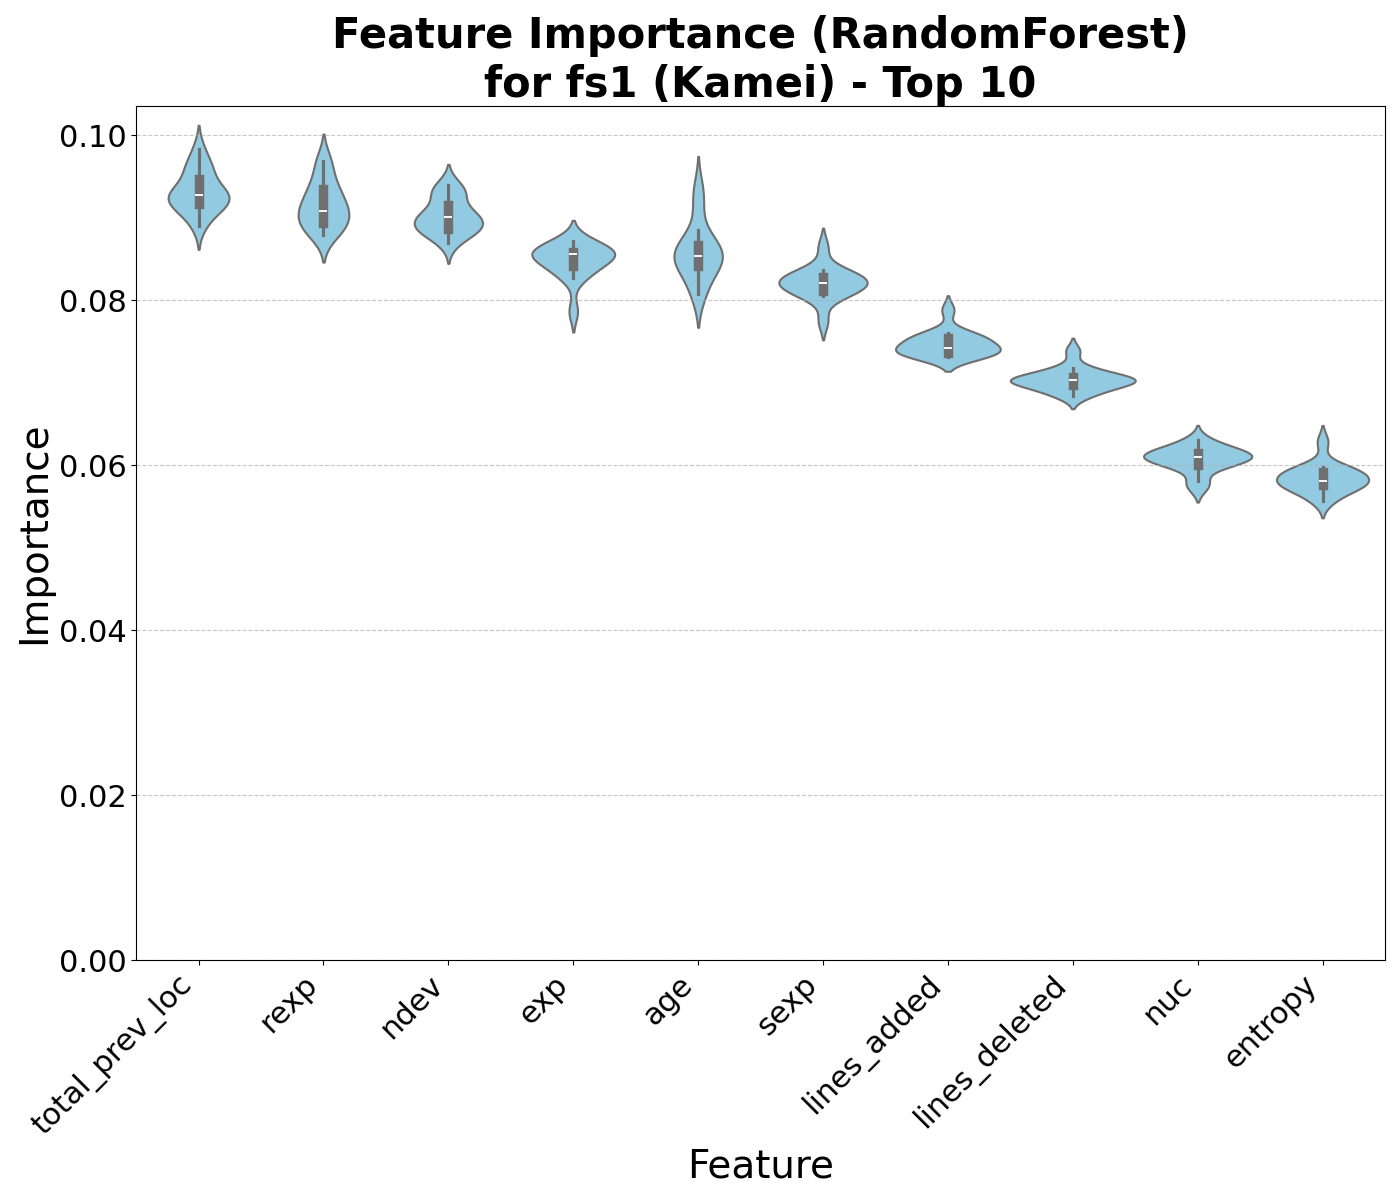
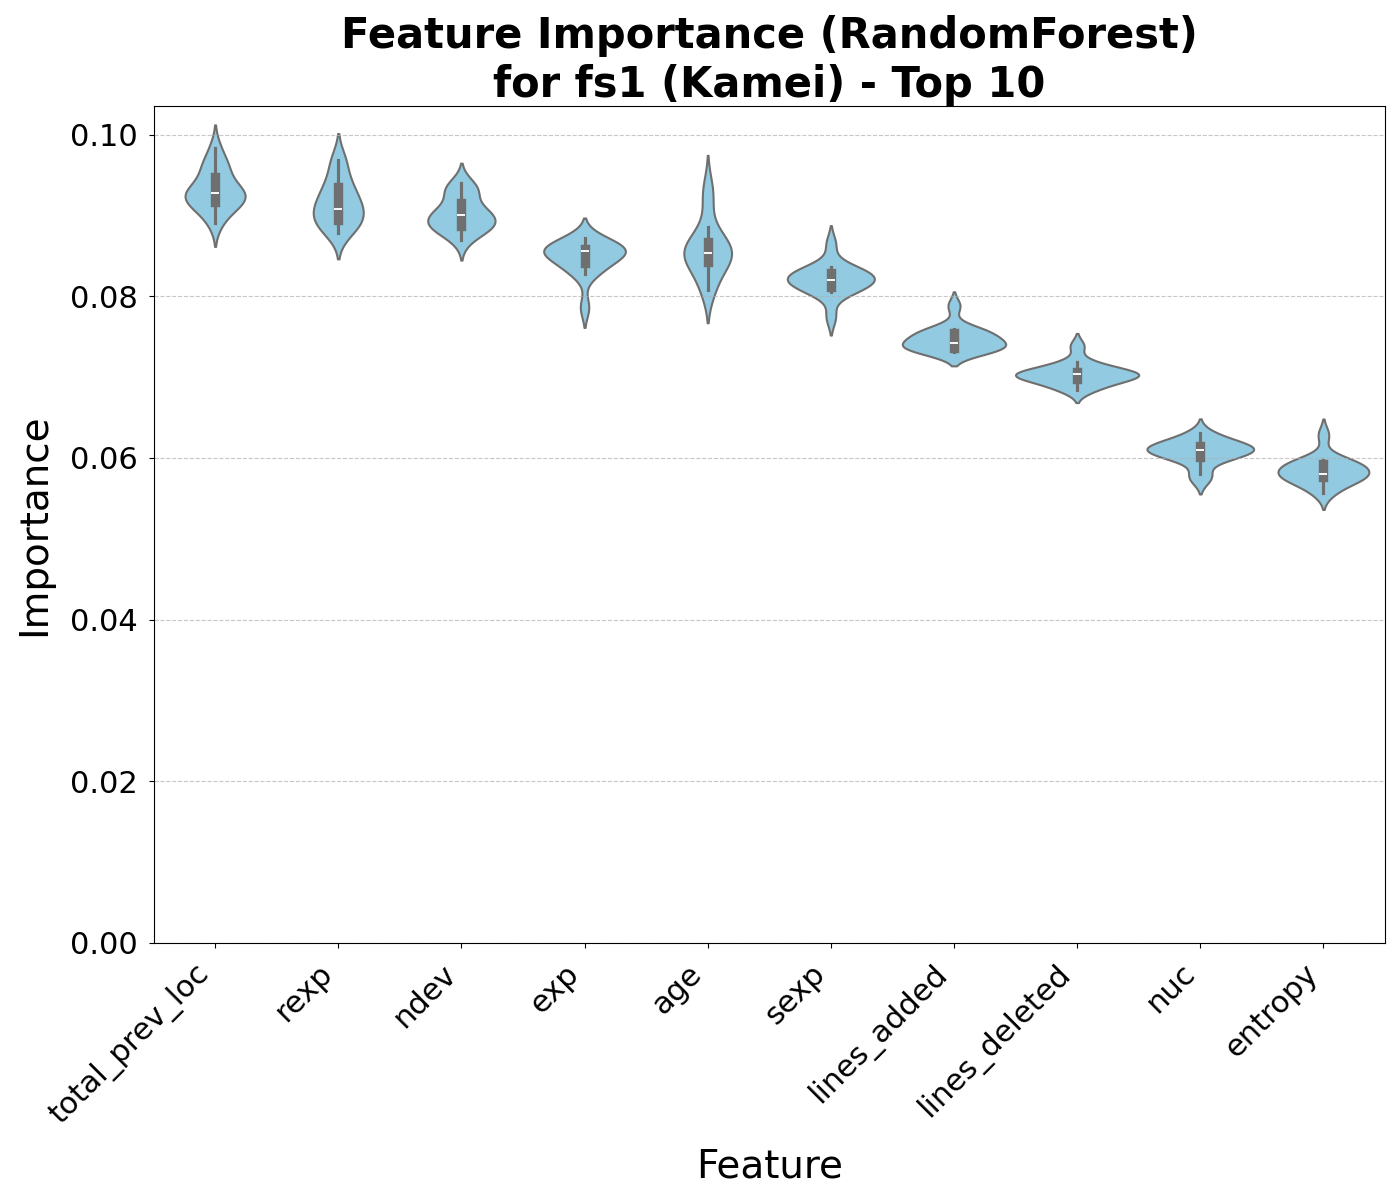
Violin plot modification

diff --git a/analysis/research_question1_2/analyze_comparison.py b/analysis/research_question1_2/analyze_comparison.py
@@ -216,8 +216,11 @@ def visualize_per_model_importance(
             fontsize=TITLE_FONT_SIZE,
             weight='bold',
         )
-        plt.xlabel('Feature', fontsize=AXIS_LABEL_FONT_SIZE + 2)
-        plt.ylabel('Importance', fontsize=AXIS_LABEL_FONT_SIZE + 2)
+        plt.xlabel('Feature', fontsize=AXIS_LABEL_FONT_SIZE + 2, labelpad=12)
+        plt.ylabel('Importance', fontsize=AXIS_LABEL_FONT_SIZE + 2, labelpad=12)
+        plt.tick_params(axis='x', pad=8)
+        plt.tick_params(axis='y', pad=8)
+
         plt.xticks(rotation=45, ha='right', fontsize=SMALL_TICK_FONT_SIZE + 2)
         plt.yticks(fontsize=TICK_FONT_SIZE + 2)
         plt.ylim(bottom=0)
